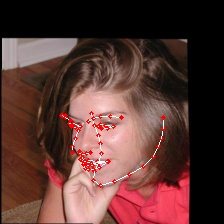
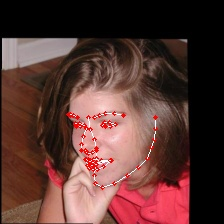
first stage ovefitted

Changed region(s): [[0.25, 0.5, 0.75, 0.8438]]

diff --git a/sanity_check.py b/sanity_check.py
@@ -28,15 +28,20 @@ list_ids = ["300W-LP/300W_LP/AFW/AFW_134212_1_2"]#, "300W-LP/300W_LP/HELEN_Flip/
     #   "300W-LP/300W_LP/LFPW_Flip/LFPW_image_train_0047_4"]
 images, y = training_data_generator.data_generation(list_ids)
 
-model = Synergy(input_shape=input_shape)
-optimizer = Nadam(learning_rate=0.001)
+model = create_synergy(input_shape=input_shape)
+optimizer = Nadam(learning_rate=0.0001)
 loss_function = tf.keras.losses.MeanSquaredError()
 #Synergy_Loss()
 # train_on_image(model, images, y, 5000, loss_function, optimizer, False)
-
+losses = {
+            'pose_3DMM':loss_function,
+            'alpha_exp':loss_function,
+            'alpha_shp':loss_function,
+            'Morphable_layer':loss_function
+        }
 model.compile(optimizer, loss_function)
-print(model.model().summary())
-model.fit(images, y, verbose=1, epochs=1000)
+print(model.summary())
+model.fit(images, y, verbose=1, epochs=10000)
 
 DMM = model.predict(images)
 

diff --git a/model/synergy.py b/model/synergy.py
@@ -19,14 +19,14 @@ def create_synergy(input_shape, num_classes=62, num_points=68):
     alpha_exp = Dense(name='alpha_exp', units=10)(X)
 #     X_shape = Dropout(0.2)(X)
     alpha_shp = Dense(name='alpha_shp', units=40)(X)
-#     morphable_model = PCA(input_shape=input_shape, name='Morphable_layer')
+    morphable_model = PCA(input_shape=input_shape, name='Morphable_layer')
     
-#     Lc = morphable_model(pose_3DMM, alpha_exp, alpha_shp)
+    Lc = morphable_model(pose_3DMM, alpha_exp, alpha_shp)
 #     Lr = MAFA(num_points=num_points)(Lc, Z, alpha_exp, alpha_shp)
 #     pose_3DMM_hat, alpha_exp, alpha_shp = Landmarks_to_3DMM(num_classes=num_classes,\
 #          num_points=num_points)(Lr)
     model = Model(inputs=[inputs],\
-          outputs=[pose_3DMM, alpha_exp, alpha_shp], name='Synergy')
+          outputs=[pose_3DMM, alpha_exp, alpha_shp, Lc], name='Synergy')
     return model
 
 class Synergy(Model):

diff --git a/data_generator/data_generator.py b/data_generator/data_generator.py
@@ -1,3 +1,4 @@
+from model.morhaple_face_model import PCA
 import tensorflow as tf
 import numpy as np
 from data_generator.image_preprocessing import image_loader
@@ -59,7 +60,10 @@ class DataGenerator(tf.keras.utils.Sequence):
         pose_3DMM = batch_parameters_3DMM[:, :12]
         alpha_exp = batch_parameters_3DMM[:, 12:22]
         alpha_shp = batch_parameters_3DMM[:, 22:]
-        return X, (pose_3DMM, alpha_exp, alpha_shp)
+        morphable_model = PCA(input_shape=self.input_shape, name='Morphable_layer')
+            
+        Lc = morphable_model(pose_3DMM, alpha_exp, alpha_shp)
+        return X, (pose_3DMM, alpha_exp, alpha_shp, Lc)
 
     def get_one_instance(self, id):
         batch = [id]
